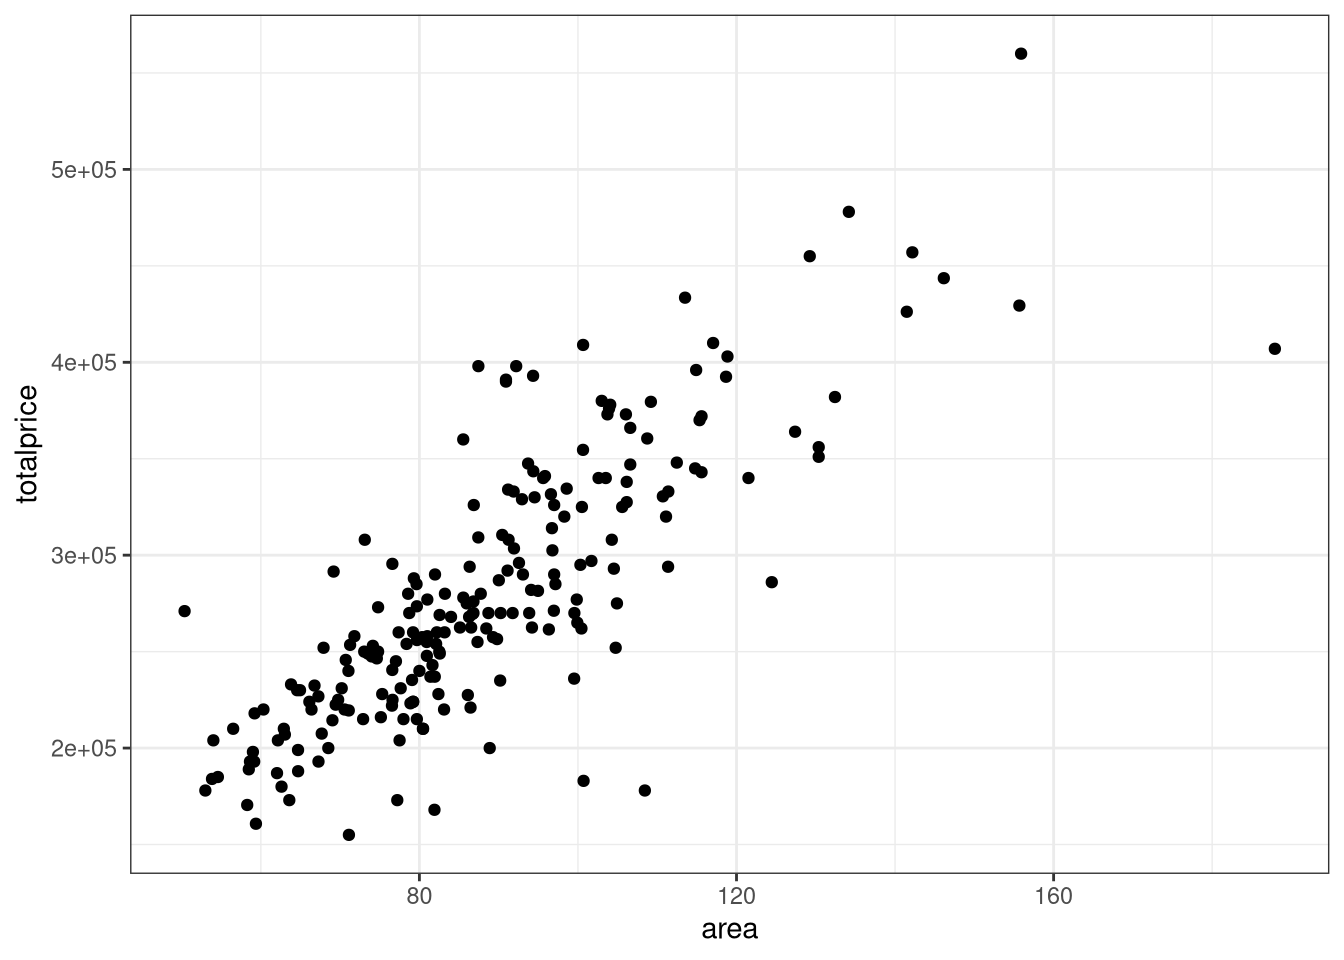
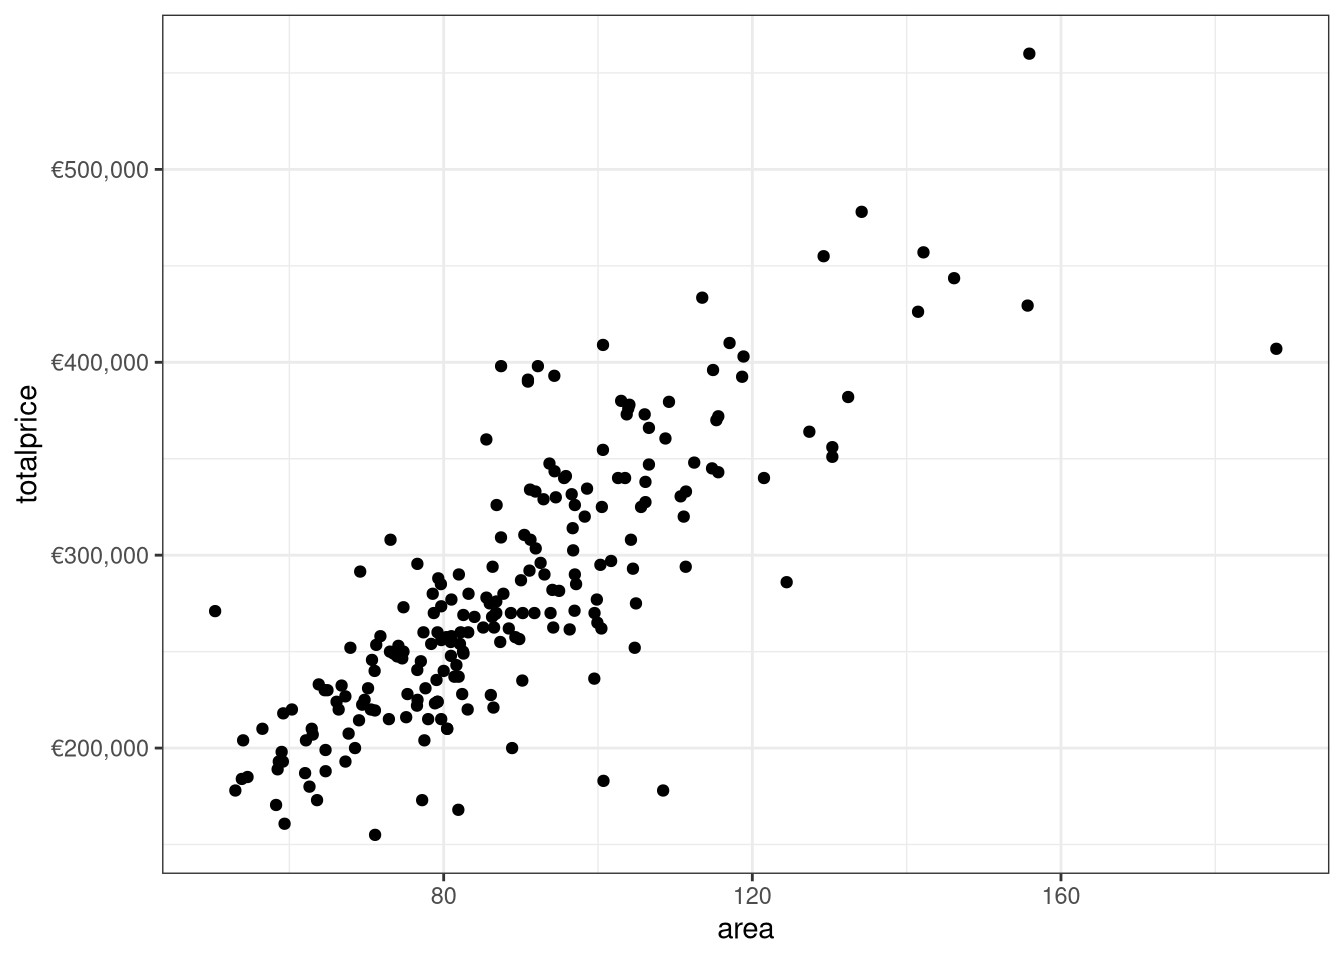
tweaks

diff --git a/Quarto/FirstQuarto.html b/Quarto/FirstQuarto.html
@@ -140,16 +140,19 @@ pre > code.sourceCode > span > a:first-child::before { text-decoration: underlin
 6      0        0             S4      3A       1</code></pre>
 </div>
 <div class="sourceCode cell-code" id="cb6"><pre class="sourceCode r code-with-copy"><code class="sourceCode r"><span id="cb6-1"><a href="#cb6-1" aria-hidden="true" tabindex="-1"></a><span class="fu">library</span>(tidyverse)</span>
-<span id="cb6-2"><a href="#cb6-2" aria-hidden="true" tabindex="-1"></a><span class="fu">ggplot</span>(<span class="at">data =</span> VIT2005, <span class="fu">aes</span>(<span class="at">x =</span> area, <span class="at">y =</span> totalprice)) <span class="sc">+</span></span>
-<span id="cb6-3"><a href="#cb6-3" aria-hidden="true" tabindex="-1"></a>  <span class="fu">geom_point</span>() <span class="sc">+</span> </span>
-<span id="cb6-4"><a href="#cb6-4" aria-hidden="true" tabindex="-1"></a>  <span class="fu">theme_bw</span>()</span></code><button title="Copy to Clipboard" class="code-copy-button"><i class="bi"></i></button></pre></div>
+<span id="cb6-2"><a href="#cb6-2" aria-hidden="true" tabindex="-1"></a><span class="fu">library</span>(scales)</span>
+<span id="cb6-3"><a href="#cb6-3" aria-hidden="true" tabindex="-1"></a><span class="fu">ggplot</span>(<span class="at">data =</span> VIT2005, <span class="fu">aes</span>(<span class="at">x =</span> area, <span class="at">y =</span> totalprice)) <span class="sc">+</span></span>
+<span id="cb6-4"><a href="#cb6-4" aria-hidden="true" tabindex="-1"></a>  <span class="fu">geom_point</span>() <span class="sc">+</span> </span>
+<span id="cb6-5"><a href="#cb6-5" aria-hidden="true" tabindex="-1"></a>  <span class="fu">theme_bw</span>() <span class="sc">+</span> </span>
+<span id="cb6-6"><a href="#cb6-6" aria-hidden="true" tabindex="-1"></a>  <span class="fu">scale_y_continuous</span>(<span class="at">labels =</span> <span class="fu">label_dollar</span>(<span class="at">prefix =</span> <span class="st">"€"</span>))</span></code><button title="Copy to Clipboard" class="code-copy-button"><i class="bi"></i></button></pre></div>
 <div class="cell-output-display">
 <p><img src="FirstQuarto_files/figure-html/unnamed-chunk-3-1.png" class="img-fluid" width="672"></p>
 </div>
 <div class="sourceCode cell-code" id="cb7"><pre class="sourceCode r code-with-copy"><code class="sourceCode r"><span id="cb7-1"><a href="#cb7-1" aria-hidden="true" tabindex="-1"></a><span class="fu">ggplot</span>(<span class="at">data =</span> VIT2005, <span class="fu">aes</span>(<span class="at">x =</span> area, <span class="at">y =</span> totalprice, <span class="at">color =</span> <span class="fu">as.factor</span>(elevator))) <span class="sc">+</span> </span>
 <span id="cb7-2"><a href="#cb7-2" aria-hidden="true" tabindex="-1"></a>  <span class="fu">geom_point</span>() <span class="sc">+</span> </span>
 <span id="cb7-3"><a href="#cb7-3" aria-hidden="true" tabindex="-1"></a>  <span class="fu">theme_bw</span>() <span class="sc">+</span> </span>
-<span id="cb7-4"><a href="#cb7-4" aria-hidden="true" tabindex="-1"></a>  <span class="fu">geom_smooth</span>(<span class="at">method =</span> <span class="st">"lm"</span>)</span></code><button title="Copy to Clipboard" class="code-copy-button"><i class="bi"></i></button></pre></div>
+<span id="cb7-4"><a href="#cb7-4" aria-hidden="true" tabindex="-1"></a>  <span class="fu">geom_smooth</span>(<span class="at">method =</span> <span class="st">"lm"</span>) <span class="sc">+</span> </span>
+<span id="cb7-5"><a href="#cb7-5" aria-hidden="true" tabindex="-1"></a>  <span class="fu">scale_y_continuous</span>(<span class="at">labels =</span> <span class="fu">label_dollar</span>(<span class="at">prefix =</span> <span class="st">"€"</span>))</span></code><button title="Copy to Clipboard" class="code-copy-button"><i class="bi"></i></button></pre></div>
 <div class="cell-output-display">
 <p><img src="FirstQuarto_files/figure-html/unnamed-chunk-3-2.png" class="img-fluid" width="672"></p>
 </div>
